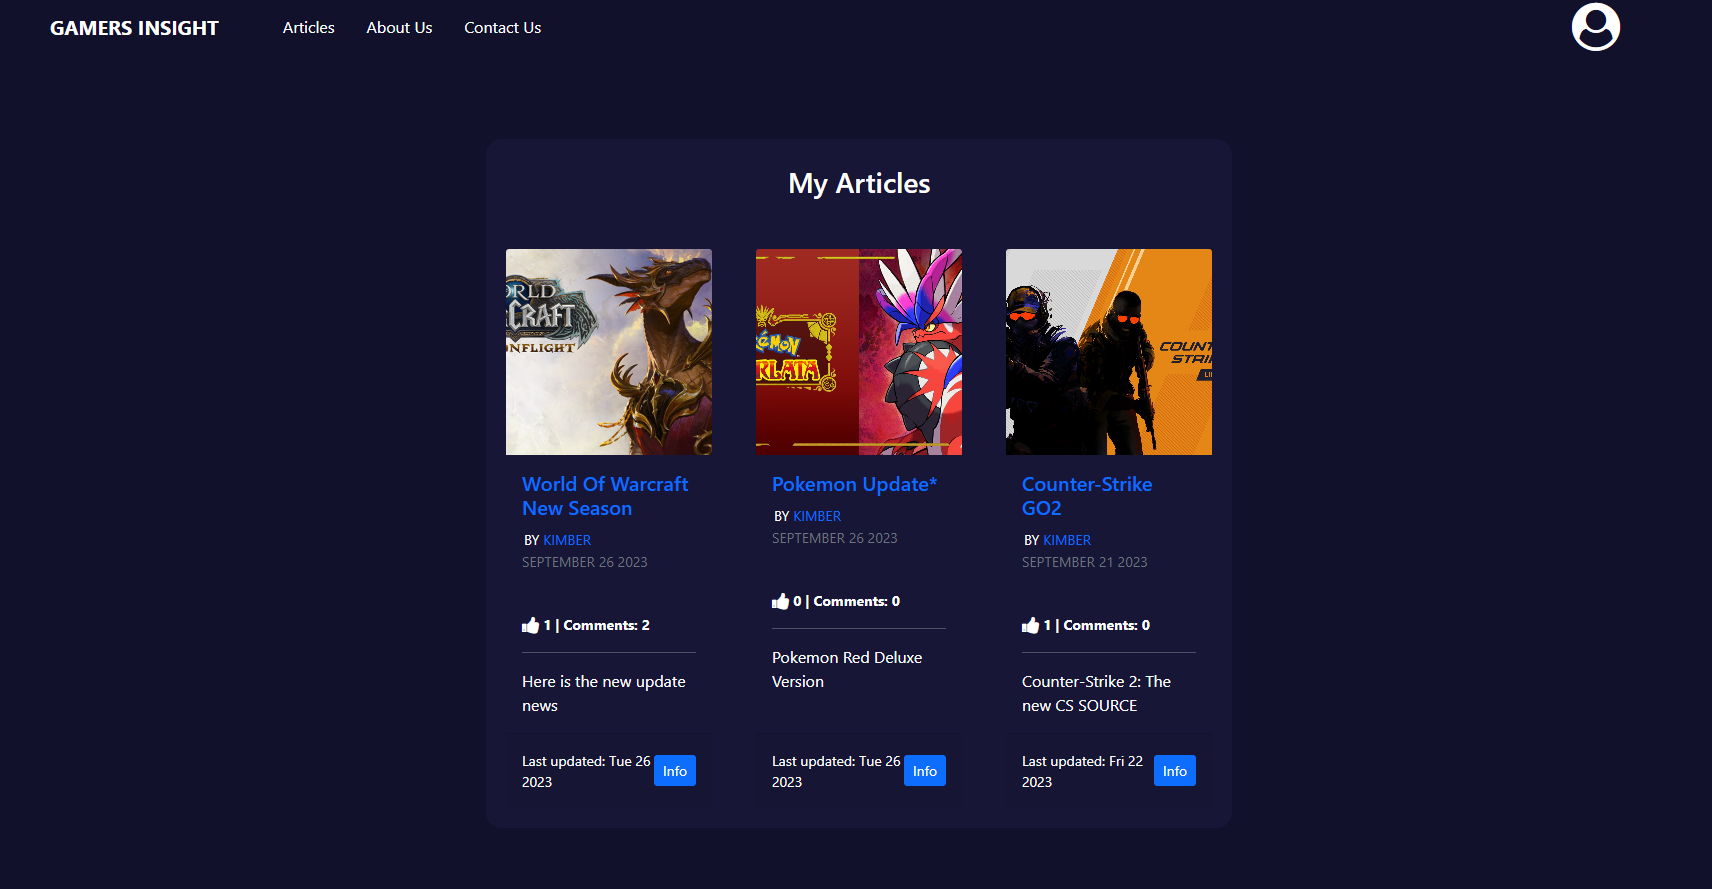
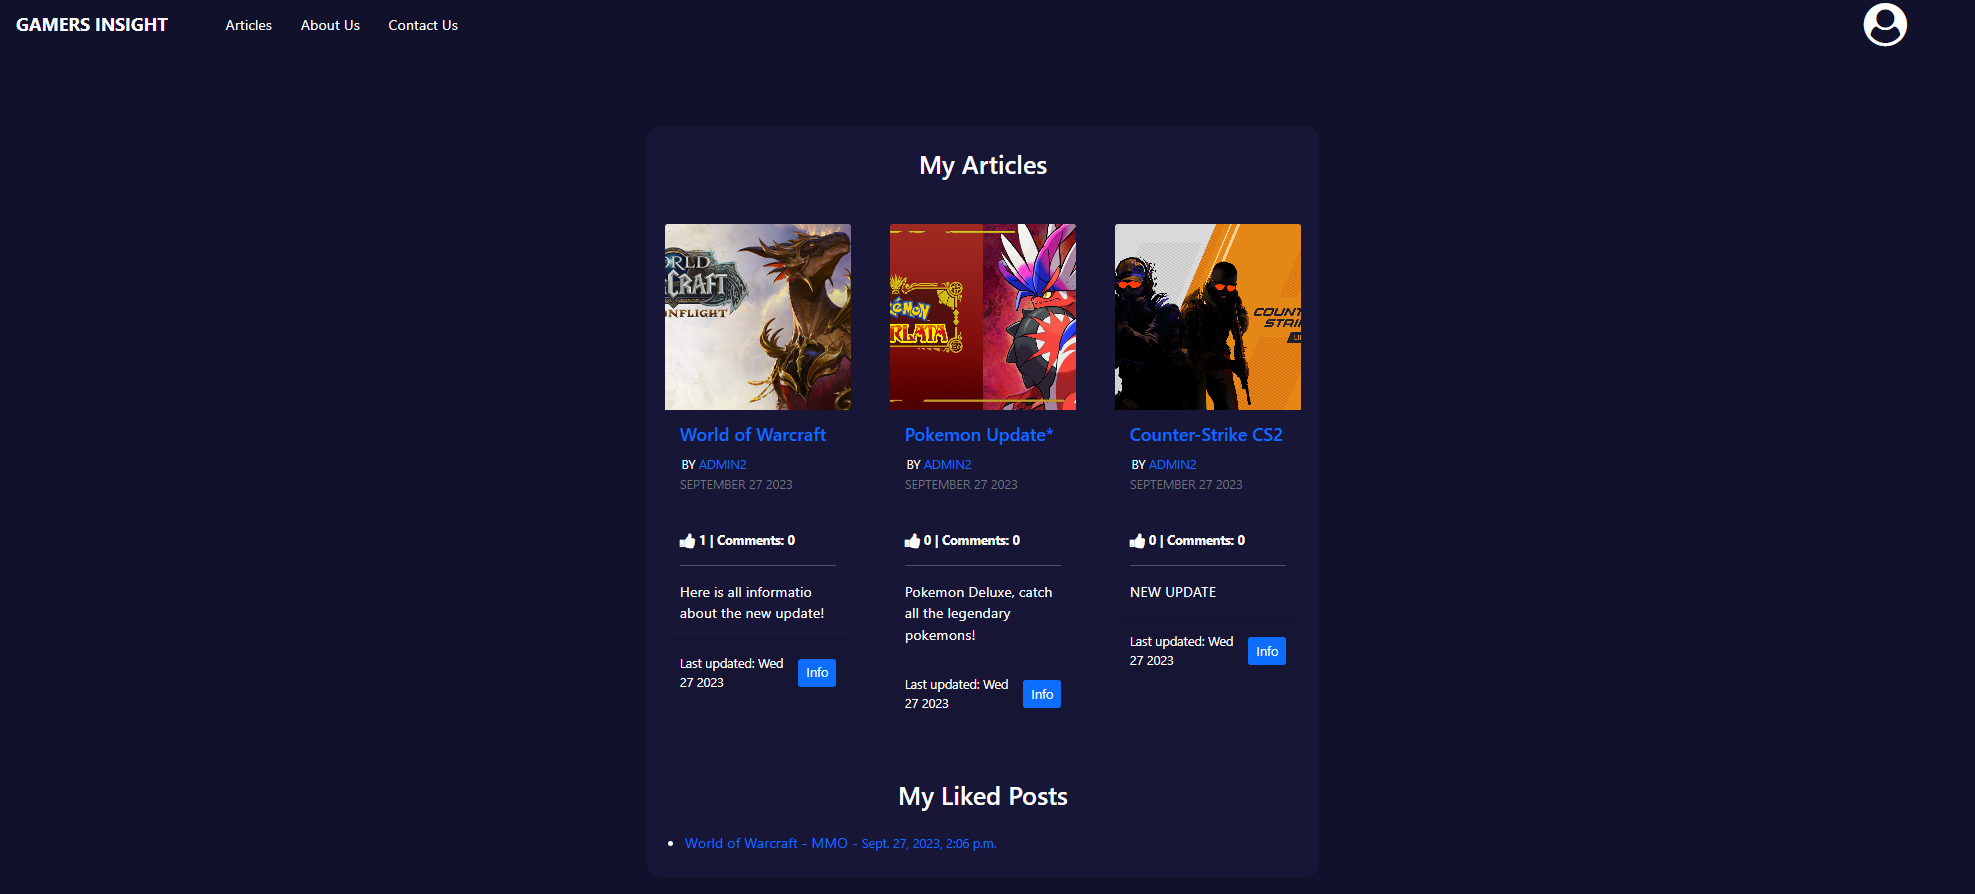
docs: updated the feature section

diff --git a/README.md b/README.md
@@ -436,6 +436,7 @@ For a comprehensive view of the project's trajectory, user stories, and bug trac
 
 ### User Account Management:
 - The account sign-up form allows new users to create an account and join the Gamers Insight community. The form has validation to make sure that the user enters the correct information needed. This is a django built in validation system. Such validation is:
+
     - **Username**: Required and has a maximum of 150 characters or fewer. Only letters, digits, and @/./+/-/_ are allowed.
     - **Email**: Required and must be in a valid email format.
     - **Password**: Subject to the following constraints:
@@ -443,7 +444,11 @@ For a comprehensive view of the project's trajectory, user stories, and bug trac
         - Must contain at least 8 characters.
         - Cannot be a commonly used password.
         - Cannot be entirely numeric.
-    - **Password Confirmation**<details><summary>See Screenshot **Form Validation**</summary><img src="docs/features/features-blog-form-valid.png"></details>
+    - See Screenshot<details><summary>**SIGNUP VALIDATION**</summary><img src="docs/features/features-blog-form-valid.png"></details>
+
+- The login form ensures secure access to Gamers Insight by verifying your username and password. If you face login issues, use the 'Forgot Password?' link to reset your password. The form also displays validation error messages to guide you through any input errors.
+    - See Screenshot<details><summary>**LOGIN VALIDATION**</summary><img src="docs/features/features-login-validation.png"></details>
+
 
 - When an account is successfully created, the user will receive a confirmation message and gain access to the profile menu.<details><summary>See Screenshot **Success**</summary><img src="docs/features/features-loggedin-user.png"></details>
 
@@ -451,7 +456,7 @@ For a comprehensive view of the project's trajectory, user stories, and bug trac
 
 - Users can access their profile page, where they can edit, delete, or change their password.<details><summary>See Screenshot **My Profile**</summary><img src="docs/features/features-profile.png"></details><details><summary>See Screenshot **Update Profile**</summary><img src="docs/features/features-update-profile.png"></details><details><summary>See Screenshot **Change Password**</summary><img src="docs/features/features-change-password.png"></details><details><summary>See Screenshot **Delete Account**</summary><img src="docs/features/features-delete-account.png"></details>
 
-- Users can view all their articles on a single page.<details><summary>See Screenshot **My Articles**</summary><img src="docs/features/features-my-articles.png"></details>
+- Users can view all their articles on a single page. This page will also display all users Liked articles. If there is no post created or liked, that will be displayed.<details><summary>See Screenshot **My Articles**</summary><img src="docs/features/features-my-articles.png"></details><details><summary>See Screenshot **None Articles/Likes**</summary><img src="docs/features/features-my-articles-none.png"></details>
 
 - Users can also use the "Logout" option to sign out of their account. Upon doing so, they will be directed to a confirmation page where they can confirm the logout.<details><summary>See Screenshot **Logout**</summary><img src="docs/features/features-logout.png"></details>
 
